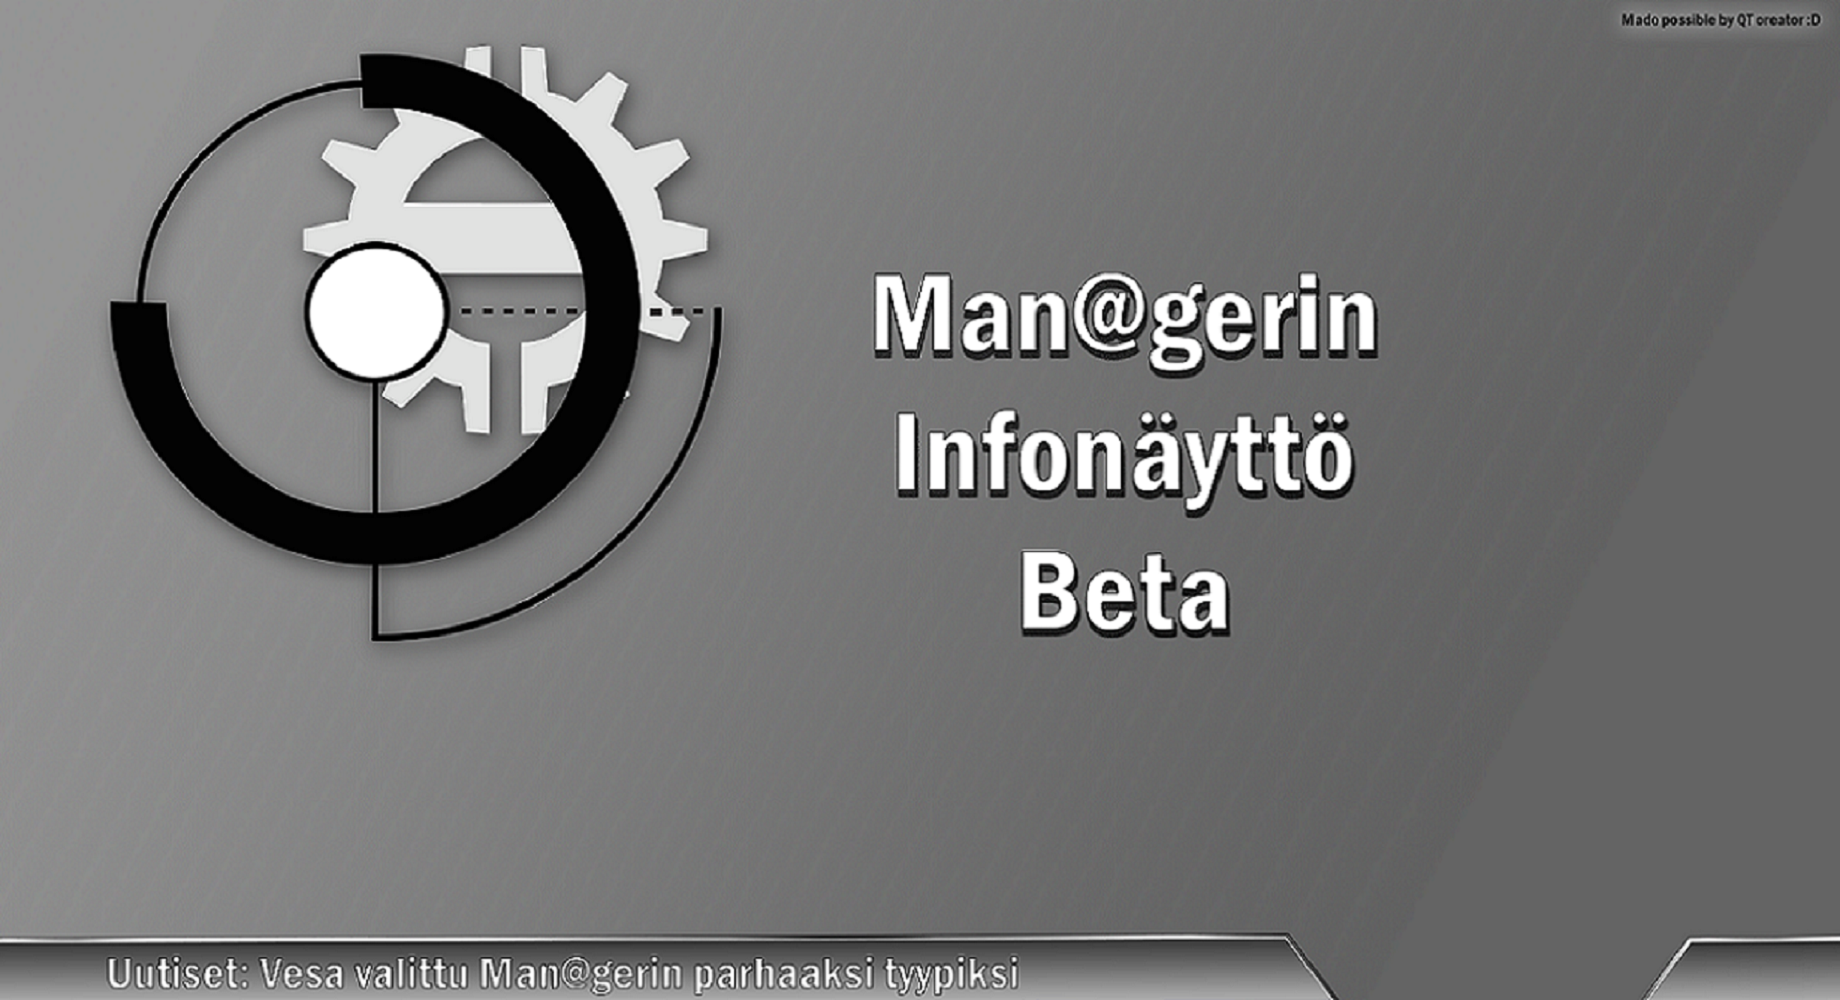
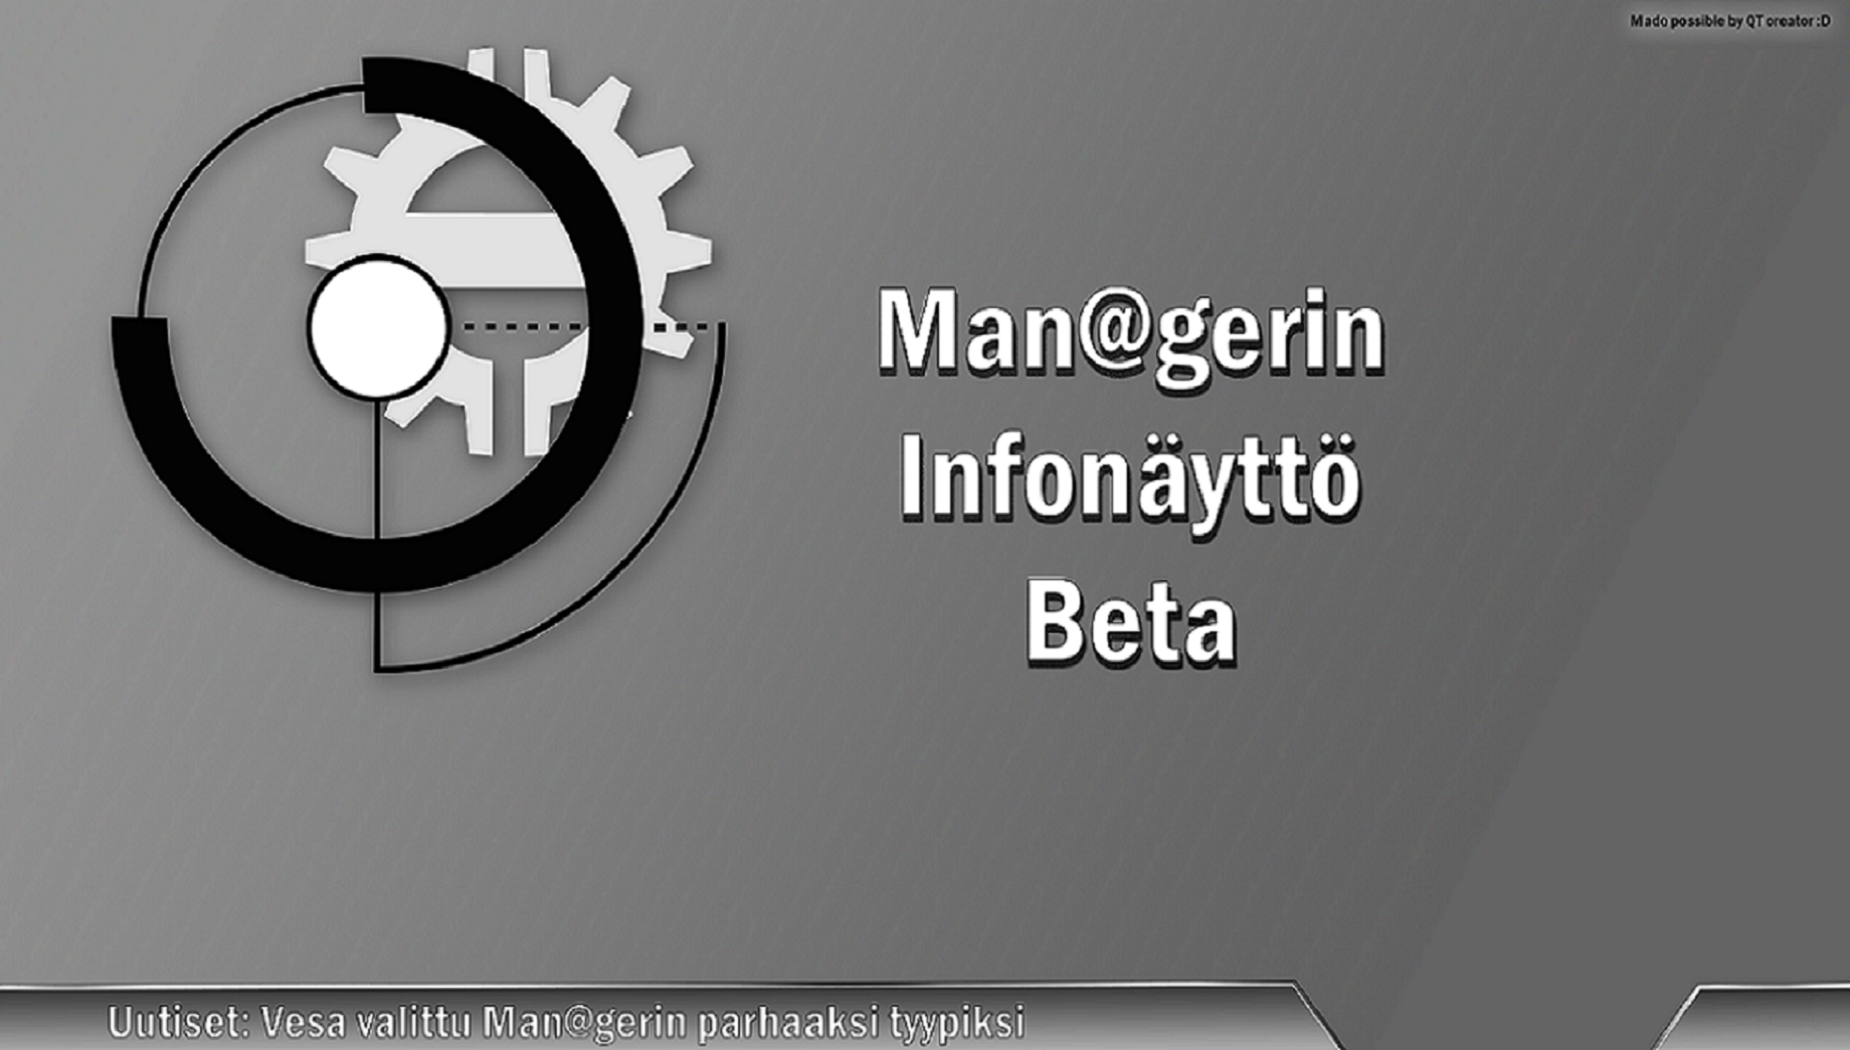
res change

diff --git a/telegram_bot/ui_form.py b/telegram_bot/ui_form.py
@@ -21,17 +21,17 @@ class Ui_InfoScreen(object):
     def setupUi(self, InfoScreen):
         if not InfoScreen.objectName():
             InfoScreen.setObjectName(u"InfoScreen")
-        InfoScreen.resize(1840, 1000)
+        InfoScreen.resize(1850, 1050)
         self.Clock = QLabel(InfoScreen)
         self.Clock.setObjectName(u"Clock")
-        self.Clock.setGeometry(QRect(1650, 950, 140, 60))
+        self.Clock.setGeometry(QRect(1680, 950, 140, 70))
         font = QFont()
         font.setPointSize(40)
         font.setStrikeOut(False)
         self.Clock.setFont(font)
         self.Background = QLabel(InfoScreen)
         self.Background.setObjectName(u"Background")
-        self.Background.setGeometry(QRect(0, 0, 1840, 1000))
+        self.Background.setGeometry(QRect(0, 0, 1850, 1050))
         self.Background.setAutoFillBackground(False)
         self.Background.raise_()
         self.Clock.raise_()
